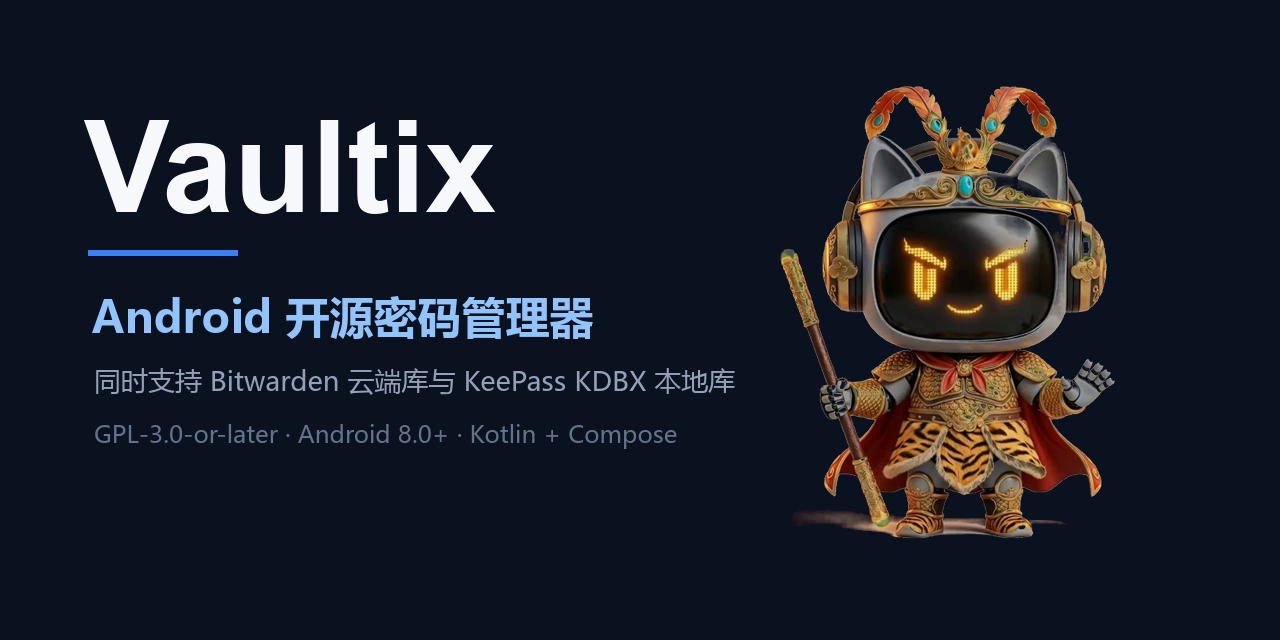
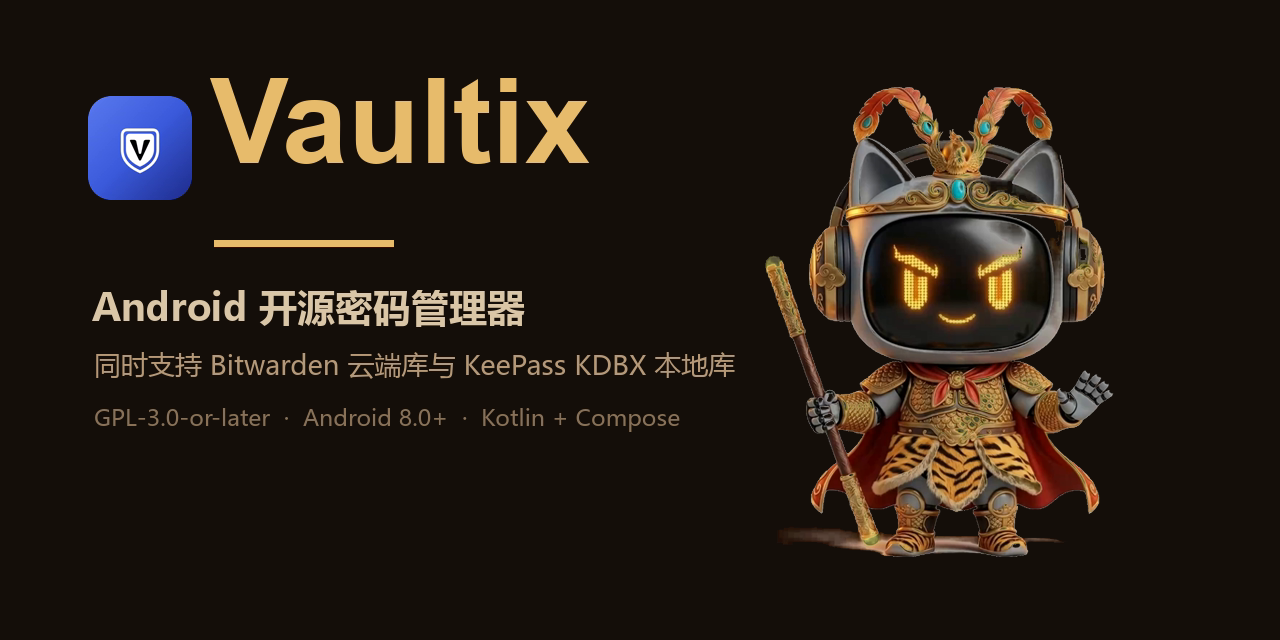
docs(readme): 动图横幅合并「吉祥物 + 品牌名 + 文案」+ 社交图按吉祥物配色重做
- 新增 Docs/assets/vaultix-banner.webp：880x260 / 36 帧 / 12fps / 2.8MB —— **一张图**里同时有
  动图吉祥物、金字 Vaultix、两行文案（透明底 + 文字描边 ⇒ GitHub 浅色主题也看得见）。
  用**无损 WebP**：有损版用户实测"动起来有残影"，改无损彻底规避压缩伪影。
- 新增 Docs/assets/vaultix-icon.png：由 ic_launcher_*.xml 矢量渲出的 App 图标（512x512）
  ⇒ 图上的图标与 App 完全一致（此前用 🔐 字形，且配色不搭）。
- social-preview.png 重做：改用**从吉祥物不透明像素取色**得到的暖金体系
  （金 #E8BC6B / 副文案 #DCC7A8 · #B79A78 / 底 #140F0A）+ App 图标 + 三行文案，与横幅同源。
- 删除被取代的 vaultix-mascot.webp（2.55MB）与 vaultix-wordmark.png，避免死资源。
- Docs/assets/README.md 重写：品牌色来源（吉祥物聚类）、格式取舍实测表、
  **两个 ffmpeg 坑**：① color 输入是无限流，不加 -frames:v 会无限编码（实测跑 13 分钟产 238MB 残file）；
  ② 本机构建无 -filter_complex_script、drawtext 字体路径要写 C\:/、彩色 emoji 渲不出。

diff --git a/Docs/assets/README.md b/Docs/assets/README.md
@@ -4,62 +4,71 @@
 
 | 文件 | 用途 | 规格 |
 |---|---|---|
-| `vaultix-mascot.webp` | README 顶部吉祥物（**动图**） | 320×320 · 30 帧 · 10fps · **≈0.94 MB** |
-| `vaultix-wordmark.png` | README 标题**字标**（替代 `# 🔐 Vaultix` 那行文字） | 860×240 · ≈16 KB |
-| `social-preview.png` | GitHub **Social preview**（仓库设置里手动上传） | 1280×640 · ≈0.25 MB |
+| `vaultix-banner.webp` | README 顶部**动图横幅**（吉祥物 + 品牌名 + 文案，一张图） | 880×260 · 36 帧 · 12fps · **≈2.8 MB** |
+| `social-preview.png` | GitHub **Social preview**（仓库设置里手动上传） | 1280×640 · ≈0.27 MB |
+| `vaultix-icon.png` | **App 图标**的渲染件（由 `ic_launcher_*.xml` 矢量渲出，与 App 完全一致） | 512×512 · ≈0.09 MB |
 
-## 字标为什么做成「深色底 + 字标 + 强调条」
+## 品牌色（**取自吉祥物本身**，别再另选）
 
-⚠ **透明底的白色字在 GitHub 浅色主题下会看不见** —— 这是 README 图片最常见的翻车点。
-两种可行做法：① **烘一层深色底**（本仓选用：两种主题下都是"一块深色面板"，且与 Social preview 同品牌）；
-② `<picture>` + `prefers-color-scheme` 出两版图（更轻，但依赖 GitHub 对 `<picture>` 的支持）。
-将来若想换成 ②，照着上面的 ffmpeg 命令把 `-f lavfi -i color=…` 那层去掉即可得到透明版。
+从吉祥物的不透明像素聚类得到：主调是**深褐黑**（`#040302` / `#562513`）+ **暖金**（`#D1A15D` / `#AB8B60`）。
+故横幅与社交图统一用：文字金 `#E8BC6B`、副文案 `#DCC7A8` / `#B79A78`、底 `#140F0A`。
+⚠ App 图标自身是**蓝**（`#5B7BF0 → #3B5BDB → #1E2C8C`）——蓝是产品身份、金是吉祥物气质，
+两者是互补搭配，**不要把图标改成金色**。
 
-标题语义靠 `<h1><img/></h1>` 保留（不是裸 `<img>`）—— 这样 GitHub 的页面结构与无障碍读屏仍有标题。
+## 为什么是 WebP（不是 APNG / GIF）
 
-
-## 为什么是 WebP 而不是 APNG / GIF
-
-原始素材是 **APNG**（556×556 / 36 帧 / 12fps / **10.2 MB**）：体积过大，
-README 首屏会被它拖慢。三种格式同尺寸（320×320 / 30 帧 / 10fps）实测：
+原素材是 **APNG**（556×556 / 36 帧 / 12fps / **10.2 MB**）。同尺寸实测：
 
 | 格式 | 体积 | alpha | 取舍 |
 |---|---|---|---|
-| APNG | 3.54 MB | 完整 | 太大 |
-| **WebP（本仓选用）** | **0.94 MB** | 完整 | ✅ 体积最小且保真；GitHub markdown 预览支持动图 WebP |
-| GIF | 1.05 MB | 仅 1-bit | 色彩渐变与半透明边缘会掉质（本素材是高光丰富的金甲机甲猫） |
+| APNG | 3.54 MB（320 宽） | 完整 | 与无损 WebP 同量级，无优势 |
+| **WebP 无损** | **2.8 MB**（880×260 横幅） | 完整 | ✅ 本仓选用：**零压缩伪影** |
+| WebP 有损 q80 | 0.94 MB（320 宽） | 完整 | ⚠ 用户报"动起来有残影" ⇒ 已弃用 |
+| GIF | 1.05 MB（320 宽） | 仅 1-bit | 高光渐变与半透明边缘掉质 |
 
-## 重新生成（素材更新时照抄）
+GitHub 的 markdown 预览**支持动图 WebP**（有专门测试仓库列出 "Supported in GitHub MarkDown preview"）。
+
+## ⚠ 生成横幅时的两个坑（照抄命令前先读）
+
+1. **`color` 输入是无限流，不限制帧数会永远编码下去** —— 实测 ffmpeg 跑了 13 分钟、
+   产出 238 MB 的残file。⇒ 必须给 **`-frames:v 36`**（或把 `-shortest` 放在**输出侧**；
+   放输入侧会报 `Option shortest ... cannot be applied to input url`）。
+2. 本机 ffmpeg **没有 `-filter_complex_script`**（同 `-vsync` 被删那类）⇒ 滤镜必须内联；
+   `drawtext` 的字体路径写 `C\:/Windows/Fonts/xxx.ttf`（**filter 字符串内不走 MSYS 路径转换**）；
+   彩色 emoji（🔐）**渲染不出来**，要用 `seguisym.ttf` 的**单色**字形。
+
+## 重新生成
 
 ```bash
-# 1) README 动图（缩尺寸 + 降帧率是关键，别直接放原图）
-ffmpeg -y -i <原图>.png -vf "fps=10,scale=320:-1:flags=lanczos" \
-  -c:v libwebp -q:v 80 -loop 0 Docs/assets/vaultix-mascot.webp
+SRC=/d/idmDown/work_cat04_sprite_anim.png   # 原始 APNG 素材
 
-# 2) Social preview：取首帧 → 叠到深色底 + 字标（滤镜内联：本机 ffmpeg 已删 -filter_complex_script）
-ffmpeg -y -i <原图>.png -frames:v 1 /tmp/frame.png
-ffmpeg -y -f lavfi -i "color=c=0x0B1220:s=1280x640" -i /tmp/frame.png \
-  -filter_complex "[1:v]scale=-1:500[mg];[0:v][mg]overlay=W-w-72:70,\
-drawbox=x=88:y=250:w=150:h=6:color=0x3B82F6@1:t=fill,\
-drawtext=fontfile='C\:/Windows/Fonts/arialbd.ttf':text='Vaultix':x=84:y=120:fontsize=128:fontcolor=0xF8FAFC,\
-drawtext=fontfile='C\:/Windows/Fonts/msyhbd.ttc':text='Android 开源密码管理器':x=92:y=296:fontsize=44:fontcolor=0x93C5FD,\
-drawtext=fontfile='C\:/Windows/Fonts/msyh.ttc':text='同时支持 Bitwarden 云端库与 KeePass KDBX 本地库':x=94:y=368:fontsize=27:fontcolor=0x94A3B8" \
+# 1) 动图横幅（吉祥物 + 品牌名 + 文案，一张图；透明底靠文字描边保证浅色主题可见）
+ffmpeg -y -i "$SRC" -f lavfi -i "color=c=black@0.0:s=880x260,format=rgba" \
+  -filter_complex "[0:v]scale=-1:216[mg];[1:v][mg]overlay=24:22[b];\
+[b]drawtext=fontfile='C\:/Windows/Fonts/arialbd.ttf':text='Vaultix':x=268:y=46:fontsize=104:fontcolor=0xE8BC6B:borderw=4:bordercolor=0x2A1A0E,\
+drawtext=fontfile='C\:/Windows/Fonts/msyhbd.ttc':text='Android 开源密码管理器':x=274:y=166:fontsize=28:fontcolor=0xDCC7A8:borderw=3:bordercolor=0x2A1A0E,\
+drawtext=fontfile='C\:/Windows/Fonts/msyh.ttc':text='Bitwarden 云端库  ·  KeePass KDBX 本地库':x=274:y=208:fontsize=21:fontcolor=0xB79A78:borderw=3:bordercolor=0x2A1A0E[out]" \
+  -map "[out]" -c:v libwebp -lossless 1 -compression_level 6 -loop 0 -frames:v 36 \
+  Docs/assets/vaultix-banner.webp
+
+# 2) App 图标渲染件：把 ic_launcher_*.xml 的 pathData 拼成 SVG（background 渐变 + foreground 路径），
+#    用**本机 Edge 无头**渲染（pycairo 在 Windows 装不上，svglib 因此渲不出 PNG）：
+#    msedge --headless=new --disable-gpu --default-background-color=00000000 \
+#           --window-size=512,512 --screenshot=Docs/assets/vaultix-icon.png file:///…/icon.html
+
+# 3) Social preview（静态）：深色暖底 + 图标 + 金字 + 文案 + 吉祥物首帧
+ffmpeg -y -i "$SRC" -frames:v 1 /tmp/frame0.png
+ffmpeg -y -f lavfi -i "color=c=0x140F0A:s=1280x640" -i /tmp/frame0.png -i Docs/assets/vaultix-icon.png \
+  -filter_complex "[1:v]scale=-1:520[mg];[2:v]scale=104:104[ic];[0:v][mg]overlay=W-w-70:70[a];[a][ic]overlay=88:96[b];\
+[b]drawtext=fontfile='C\:/Windows/Fonts/arialbd.ttf':text='Vaultix':x=210:y=78:fontsize=118:fontcolor=0xE8BC6B,\
+drawbox=x=214:y=240:w=180:h=7:color=0xE8BC6B@1:t=fill,\
+drawtext=fontfile='C\:/Windows/Fonts/msyhbd.ttc':text='Android 开源密码管理器':x=92:y=290:fontsize=38:fontcolor=0xDCC7A8,\
+drawtext=fontfile='C\:/Windows/Fonts/msyh.ttc':text='同时支持 Bitwarden 云端库与 KeePass KDBX 本地库':x=94:y=352:fontsize=27:fontcolor=0xB79A78,\
+drawtext=fontfile='C\:/Windows/Fonts/msyh.ttc':text='GPL-3.0-or-later  ·  Android 8.0+  ·  Kotlin + Compose':x=94:y=408:fontsize=23:fontcolor=0x8A7259" \
   -frames:v 1 Docs/assets/social-preview.png
-
-# 3) 字标（README 标题）。⚠ 去掉下面 `-f lavfi -i color=…` 那一层就得到**透明底**版本
-#    （但透明版的白色字在浅色主题下会看不见，见上一节）
-ffmpeg -y -f lavfi -i "color=c=0x0B1220:s=860x240" \
-  -filter_complex "drawtext=fontfile='C\:/Windows/Fonts/seguisym.ttf':text='🔐':x=62:y=56:fontsize=126:fontcolor=0xE2E8F0,\
-drawtext=fontfile='C\:/Windows/Fonts/arialbd.ttf':text='Vaultix':x=212:y=42:fontsize=134:fontcolor=0xF8FAFC,\
-drawbox=x=216:y=196:w=186:h=7:color=0x3B82F6@1:t=fill" \
-  -frames:v 1 Docs/assets/vaultix-wordmark.png
 ```
-
-⚠ **本机 ffmpeg 没有 `-filter_complex_script`**（同 `-vsync` 被删那类）⇒ 滤镜必须内联；
-`drawtext` 的字体路径要写 `C\:/Windows/Fonts/xxx.ttf`（**filter 字符串内不走 MSYS 路径转换**）；
-锁字形取自 `seguisym.ttf`（单色，不是彩色 emoji —— 后者 ffmpeg 渲染不出来）。
 
 ## ⚠ Social preview 必须**手动上传**（GitHub 没有 API）
 
 仓库 → **Settings → General → Social preview → Upload an image**，传 `social-preview.png`。
-不上传的话，GitHub 会在分享链接时自动截取 README 顶部，显得很单薄。
+不上传的话，GitHub 在分享链接时会自动截取 README 顶部，显得很单薄。

diff --git a/README.md b/README.md
@@ -1,9 +1,7 @@
 <div align="center">
 
-<img src="./Docs/assets/vaultix-mascot.webp" alt="Vaultix 吉祥物" width="150" />
-
 <h1 align="center">
-  <img src="./Docs/assets/vaultix-wordmark.png" alt="Vaultix" width="430" />
+  <img src="./Docs/assets/vaultix-banner.webp" alt="Vaultix —— Android 开源密码管理器，同时支持 Bitwarden 云端库与 KeePass KDBX 本地库" width="600" />
 </h1>
 
 **Android 开源密码管理器 —— 同时支持 Bitwarden 云端库与 KeePass KDBX 本地库**
